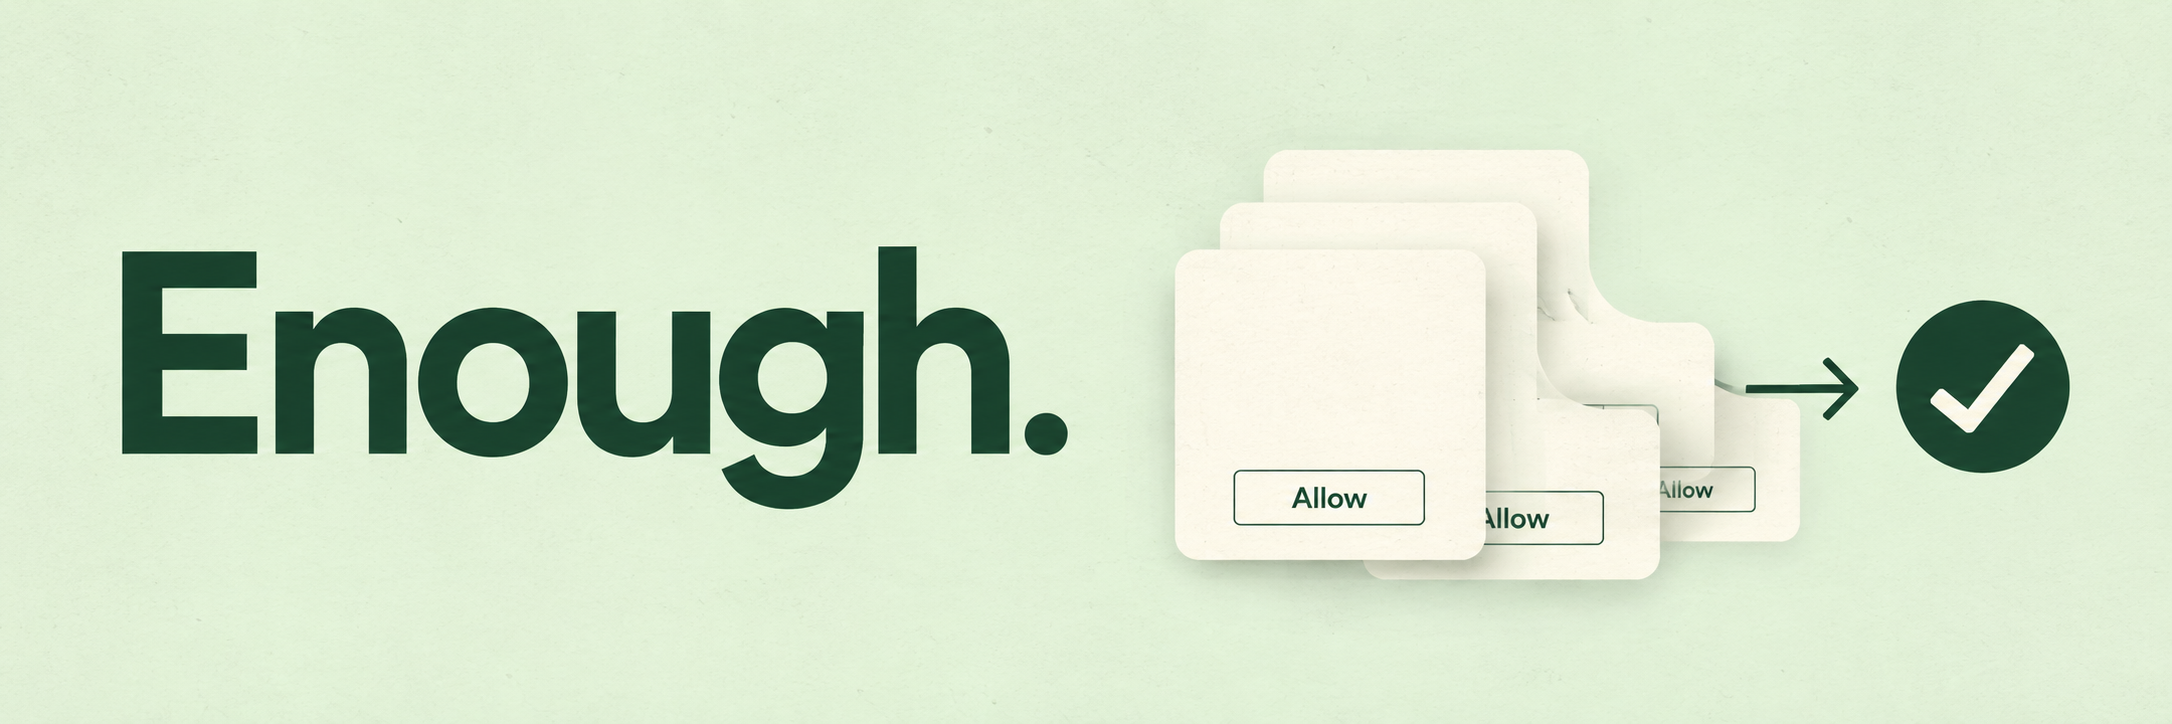
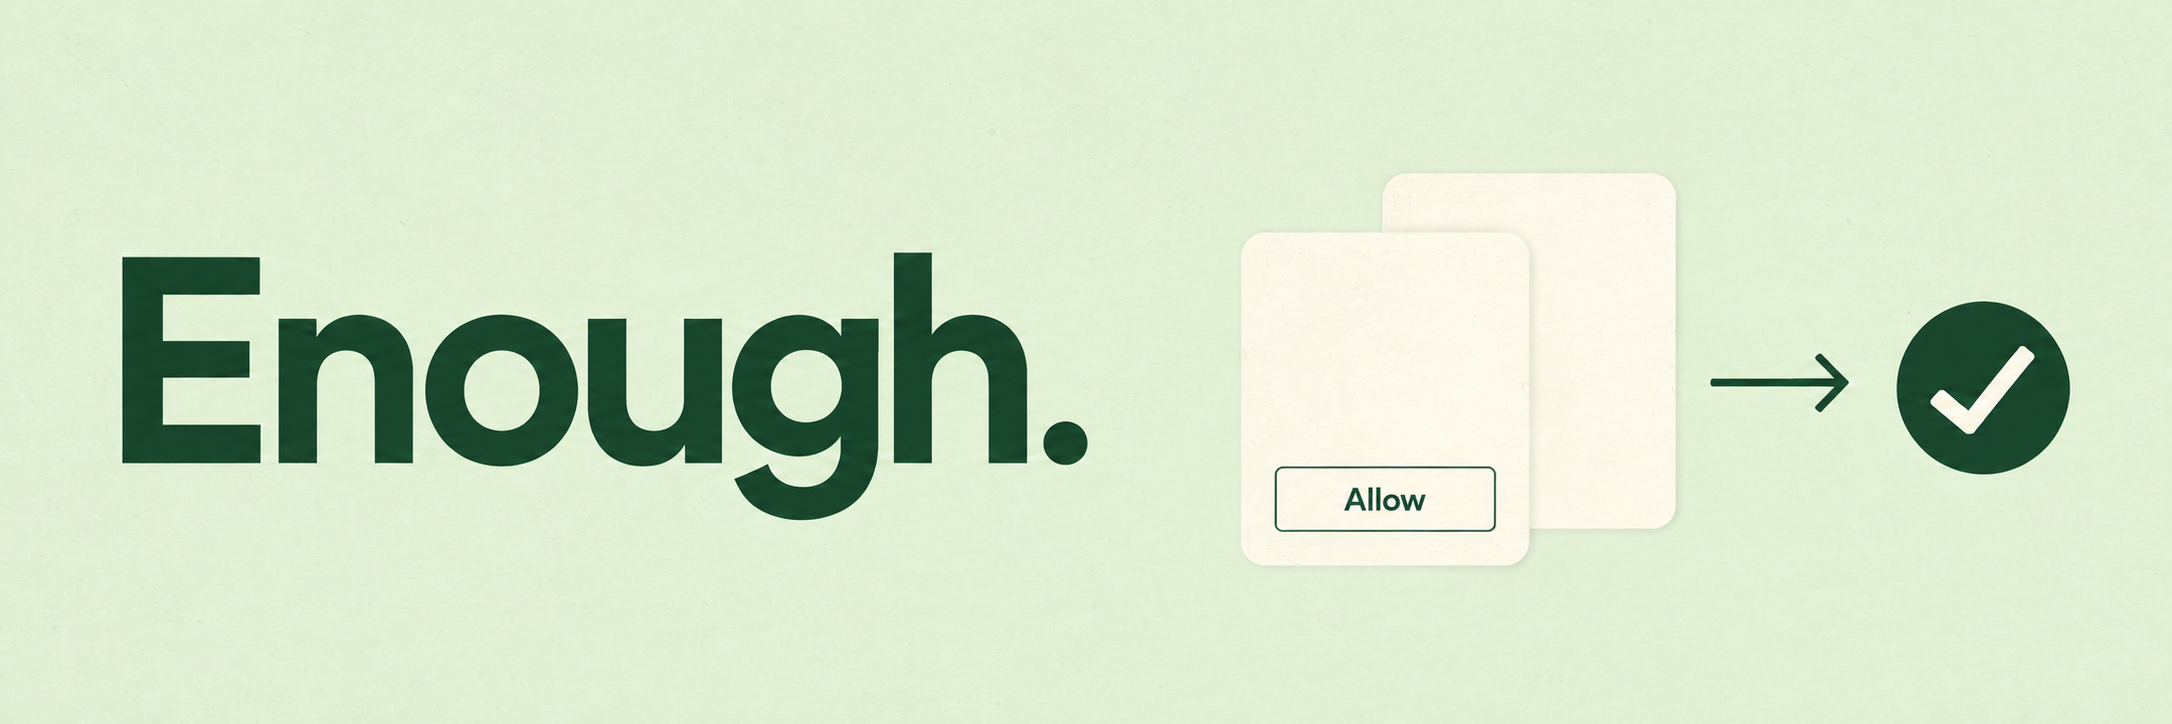
Publish installer button, cleaner artwork, and tested release scope

diff --git a/README.md b/README.md
@@ -2,13 +2,17 @@
 
 Automatic approval for macOS file and app-data permission popups.
 
+<a href="https://github.com/jtc268/enough/releases/download/v0.1.0/Enough-0.1.0-universal.dmg"><img src="Assets/download.svg" alt="Download Enough for Mac" width="360" height="88"></a>
+
+**Open the download. Drag Enough into Applications. Open Enough and grant Accessibility access.**
+
 **[Buy me a coffee](https://buymeacoffee.com/refresh1)** · [Compatibility](Docs/compatibility.md) · [MIT license](LICENSE)
 
 ![Enough. A stack of Allow dialogs becomes a single green check.](Assets/banner.png)
 
 A small menu bar app for the hundredth time Python asks for access. Free, open source, and written in Swift.
 
-The first signed release is being prepared. Source builds work now.
+Early release. Signed by Adore LLC and notarized by Apple. macOS 13 or later. The download is 532 KB.
 
 ## Use
 
@@ -16,12 +20,14 @@ The first signed release is being prepared. Source builds work now.
 2. Give Enough **Accessibility** access in System Settings.
 3. Leave it running. Pause or quit from the menu bar.
 
+macOS may show its normal download confirmation on the first open. Enough itself requests only Accessibility. Test fixtures are not included in the app.
+
 Enough clicks **Allow** for supported requests from **any app**. This grants real access to your files and app data. Turn it on only when that is what you want.
 
 ## Scope
 
 - Documents, Desktop, and Downloads folder requests.
-- Requests to access data from other apps.
+- Requests to access data from other apps: experimental, not yet verified in a live approval test.
 - English system dialogs with the exact supported wording and buttons.
 
 It leaves other dialogs alone, including passwords, Touch ID, installers, camera, microphone, screen recording, and network requests. One initial Accessibility grant is required. macOS 13 or later; Intel and Apple Silicon builds. See the [tested versions and limitations](Docs/compatibility.md).

diff --git a/Docs/compatibility.md b/Docs/compatibility.md
@@ -10,10 +10,13 @@ macOS 27.0 beta, build 26A5425a, Apple Silicon.
 | --- | --- |
 | Real Documents permission request | Approved through Apple's system dialog; the requesting fixture then read the folder successfully |
 | Desktop and Downloads requests | The development app clicked Allow and recorded closure; each requesting fixture read its folder successfully |
-| Access to another app's data | Matcher implemented; live check pending |
+| Access to another app's data | Experimental. The local fixture returned a permission error without a recorded approval. Not proven |
 | Intel and Apple Silicon release compilation | Passed |
 | Installed app's first window | Visually checked |
 | Request matching | 28 checks, including an app-supplied purpose string that imitates a supported title |
+| Signed installer | Apple notarization, stapling, signatures, universal architecture, and Gatekeeper checks passed on the build runner and this Mac |
+
+The macOS 14.8.9 runner allowed the fixtures to read without showing permission dialogs. That run is inconclusive for automatic approval. The downloadable binary was built from commit `9a57333ab6479f306b4f6bf18200e3f59deed72e`; subsequent release-page changes affect documentation and artwork only.
 
 The development app handled three folder requests launched together. This is not a test of hundreds of queued windows. Later repeat runs included manual interaction and are not counted as automatic approval evidence. The packaged release uses a stricter headline check than the first GUI integration run.
 
